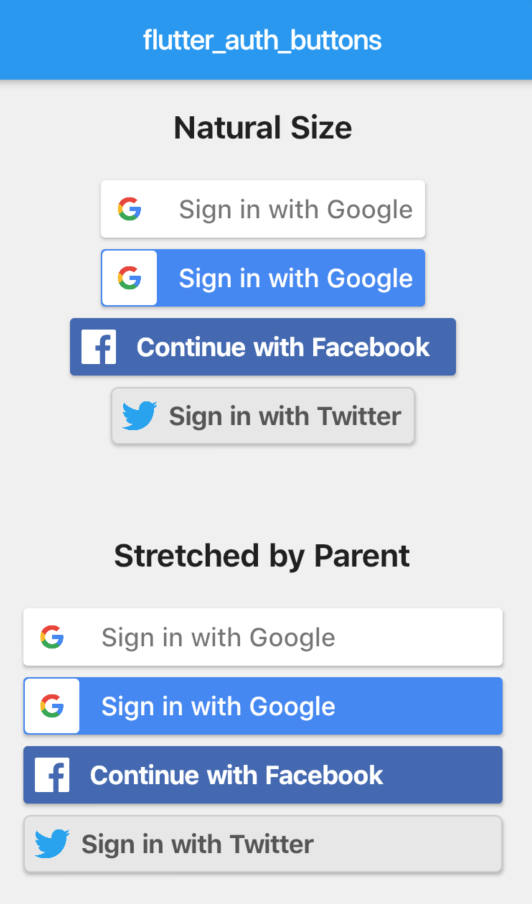
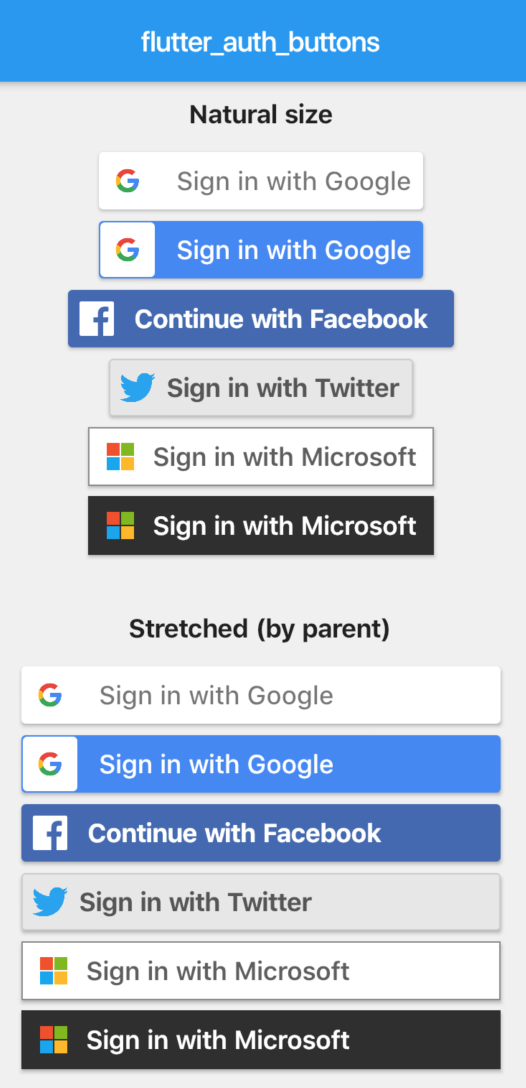
Update changelog and README

diff --git a/README.md b/README.md
@@ -1,6 +1,7 @@
 # Flutter Auth Buttons
 
-Flutter widget library containing buttons for authenticating with popular social networks, including Google, Facebook and Twitter.
+Flutter widget library containing buttons for authenticating with popular social networks: Google, Facebook, Twitter
+and Microsoft.
 
 <img src="https://raw.githubusercontent.com/dmjones/flutter_auth_buttons/master/screenshots/example-app.png" alt="Screenshot" width="250" />
 

diff --git a/CHANGELOG.md b/CHANGELOG.md
@@ -1,3 +1,7 @@
+## [0.5.0]
+
+* Added Microsoft button.
+
 ## [0.4.0]
 
 * Border radius can be specified (thanks [@nerder](https://github.com/nerder)).
